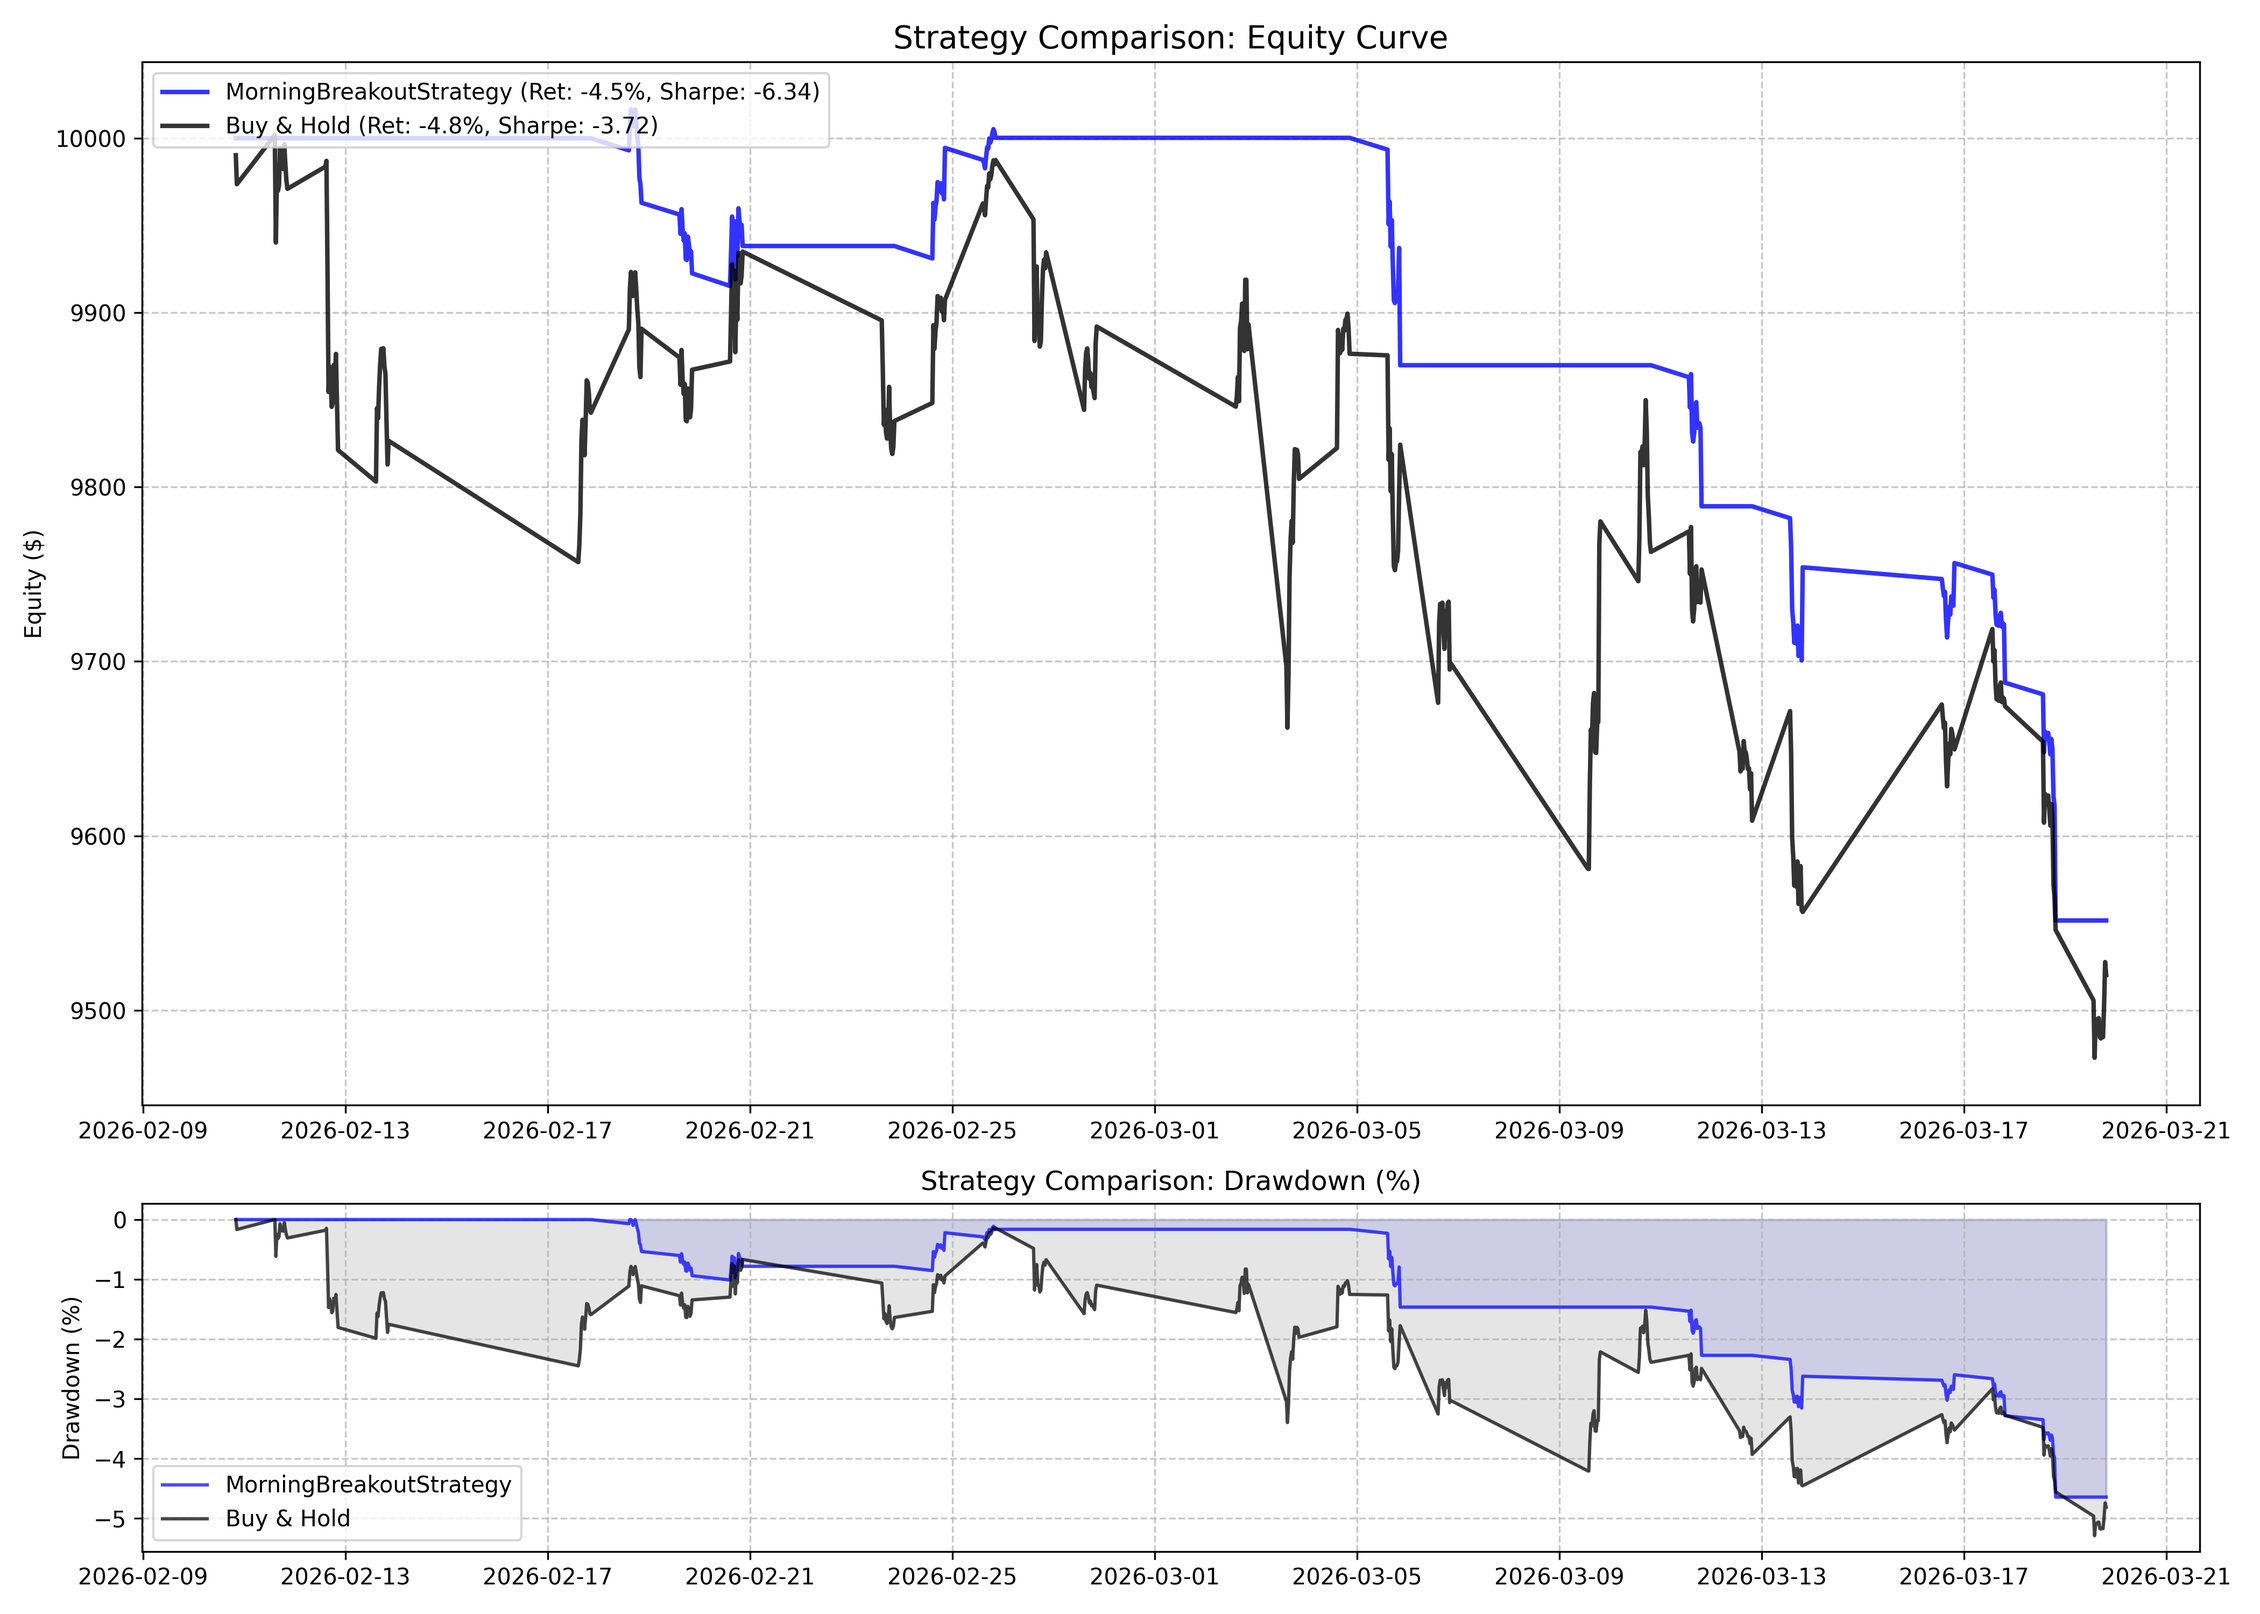
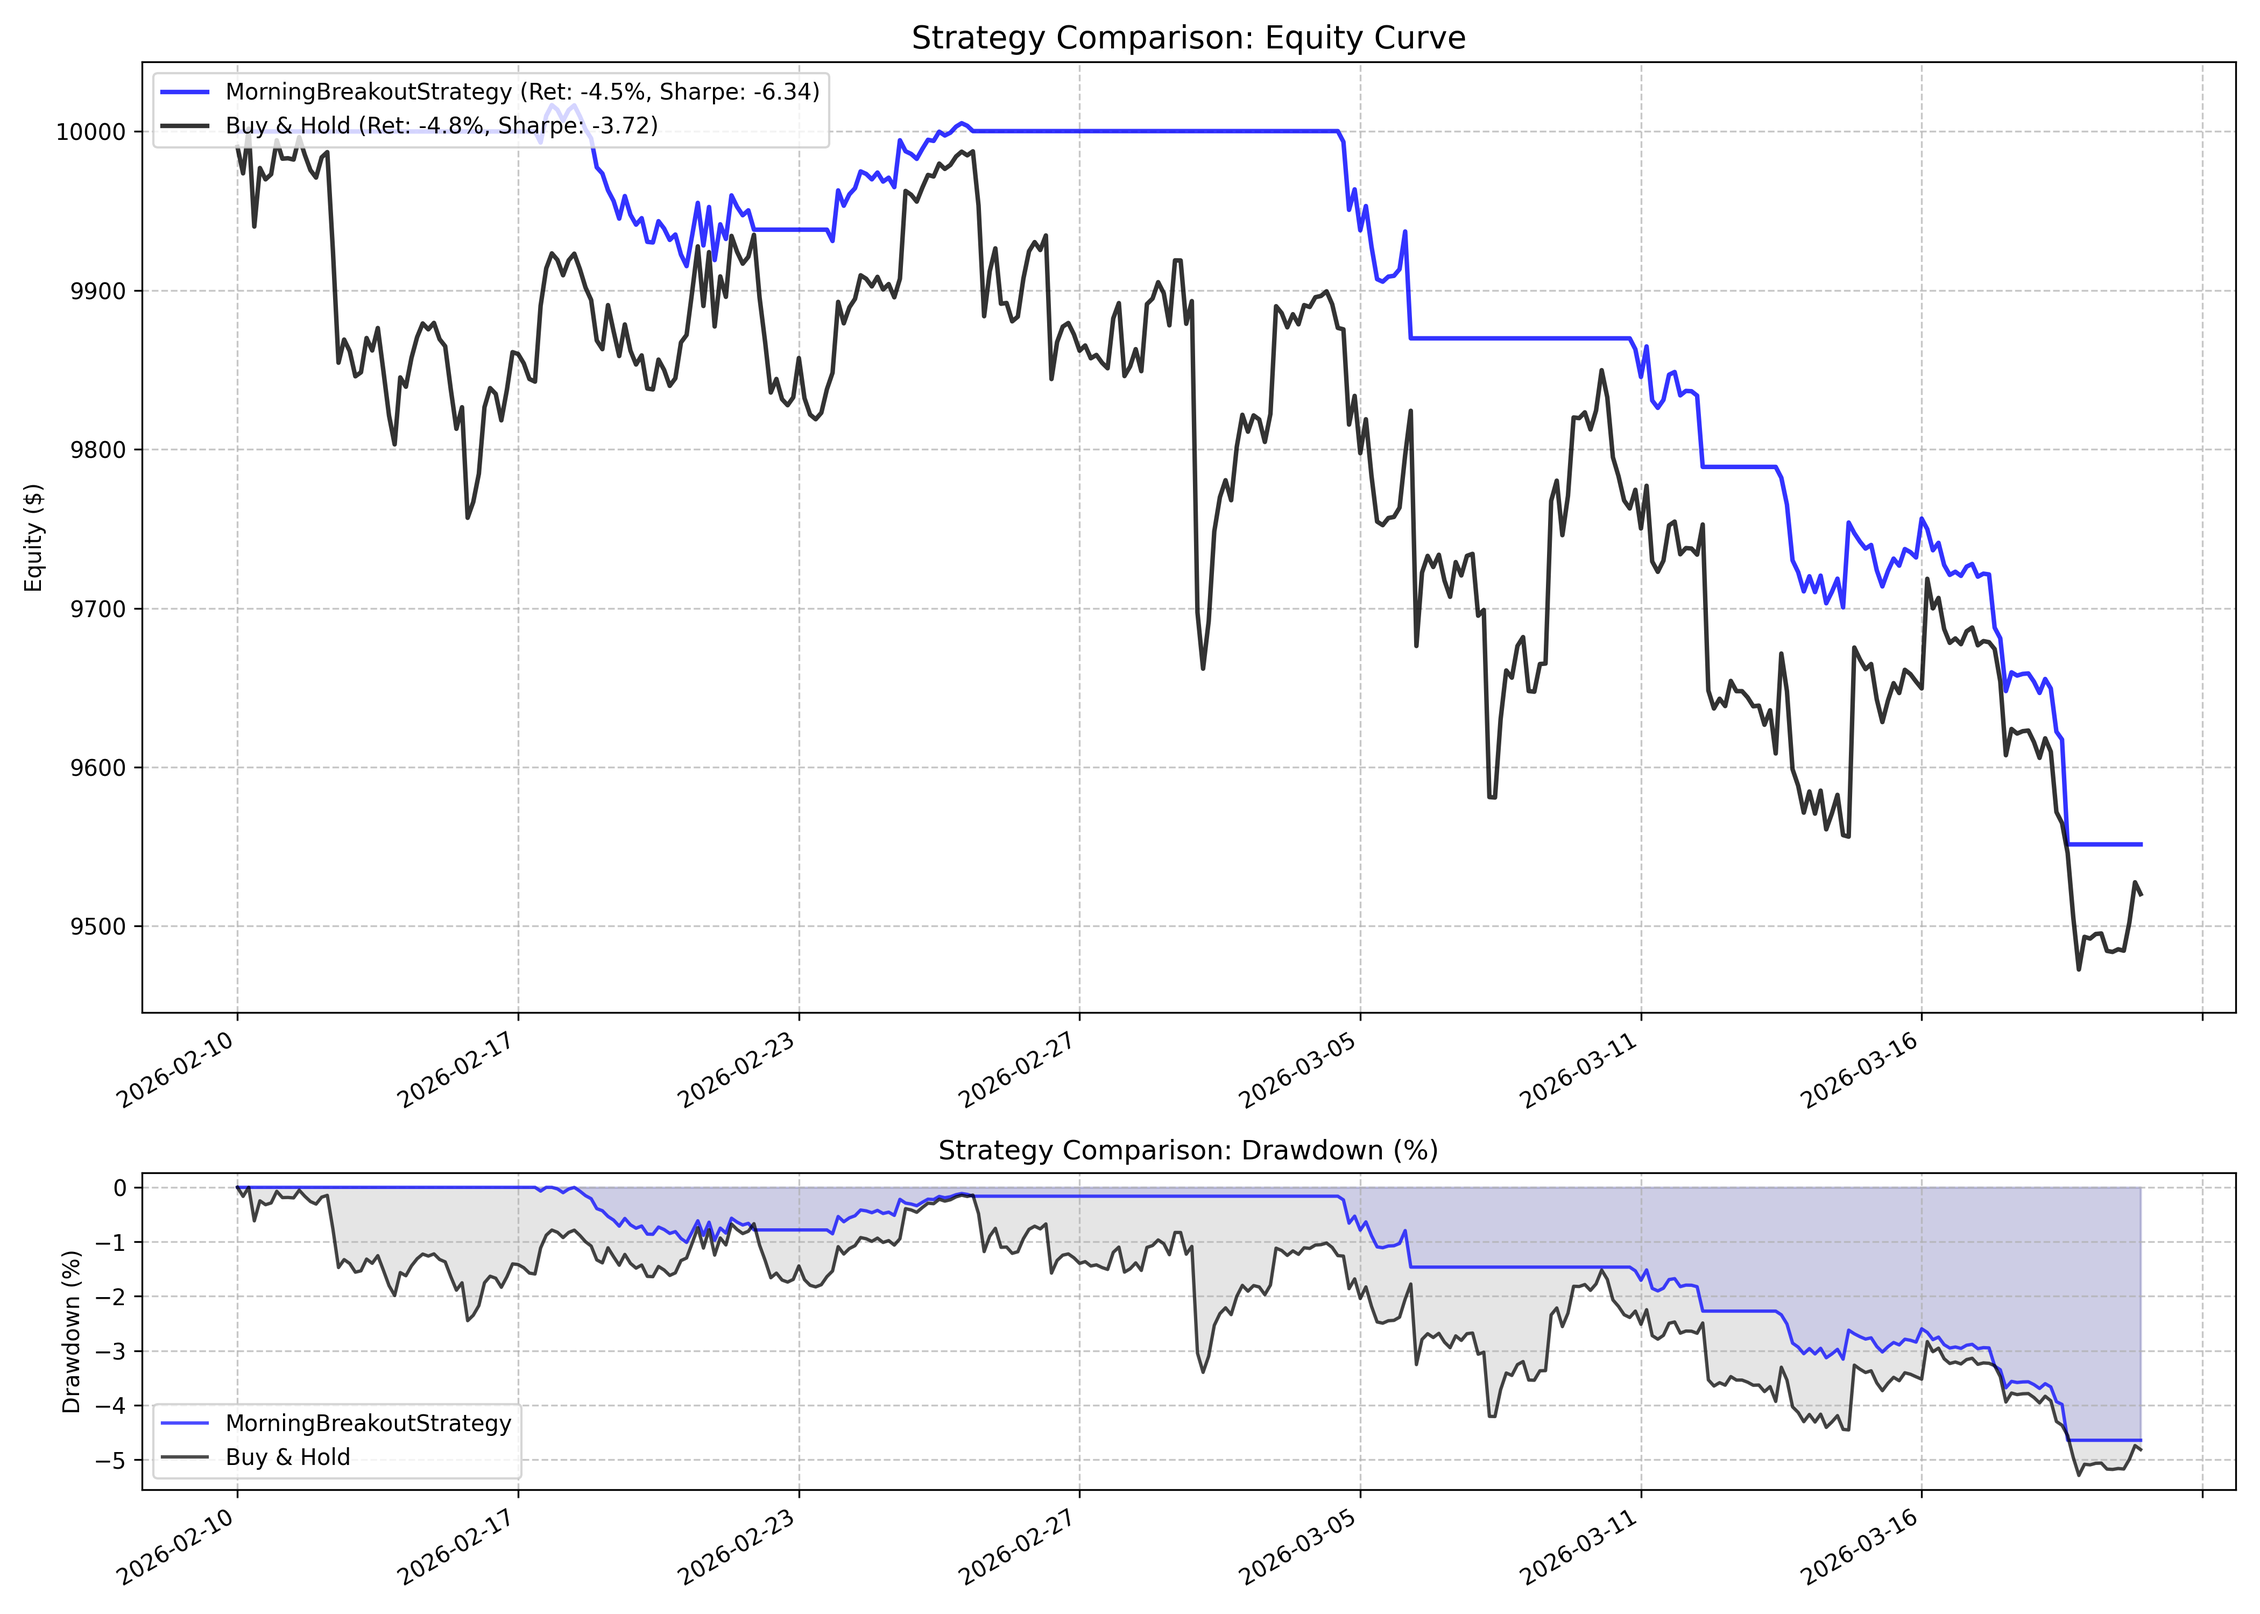
Removed weekend gaps from charts

diff --git a/backend/backtesting/chart.py b/backend/backtesting/chart.py
@@ -1,5 +1,5 @@
 import matplotlib.pyplot as plt
-import matplotlib.dates as mdates
+import matplotlib.ticker as ticker
 import matplotlib.figure
 import pandas as pd
 from typing import Dict, Optional
@@ -9,55 +9,78 @@ from .results import BacktestResult
 def plot_results(results: Dict[str, BacktestResult], filename: Optional[str] = 'backtest_result.png', show: bool = False) -> Optional[matplotlib.figure.Figure]:
     """
     Plots the equity curves and drawdown curves for multiple strategies on the same chart.
+    Uses integer-based x-axis so weekends and holidays are skipped (no gaps).
     Saves to a file and optionally displays the plot. Returns the Figure object.
     """
     if not results:
         print("No results to plot.")
         return None
 
-    # Create figure with 2 subplots (Equity Curve and Drawdown Curve)
     fig, (ax1, ax2) = plt.subplots(2, 1, figsize=(14, 10), gridspec_kw={'height_ratios': [3, 1]})
     
-    # Colors for different strategies
     colors = ['blue', 'black', 'green', 'orange', 'purple', 'red']
     
+    # We'll build one shared label list from the first valid result so the formatter
+    # can map integer x positions back to date strings on both subplots.
+    x_labels = None
+
     for i, (name, result) in enumerate(results.items()):
         if not result.equity_curve:
             continue
             
         color = colors[i % len(colors)]
 
-        # Convert to dataframe for easier plotting
         df = pd.DataFrame(result.equity_curve, columns=['timestamp', 'equity']).set_index('timestamp')
+
+        # Use integer positions so the x-axis has no gaps for missing dates
+        xs = range(len(df))
+
+        if x_labels is None:
+            x_labels = df.index.strftime('%Y-%m-%d').tolist()
 
         # --- Top Subplot: Equity Curve ---
         label = f"{name} (Ret: {result.total_return_pct:.1f}%, Sharpe: {result.sharpe_ratio:.2f})"
-        ax1.plot(df.index, df['equity'], label=label, color=color, linewidth=2, alpha=0.8)
+        ax1.plot(xs, df['equity'], label=label, color=color, linewidth=2, alpha=0.8)
         
         # --- Bottom Subplot: Drawdown Curve ---
-        # Calculate Drawdown
         cumulative_max = df['equity'].cummax()
         drawdown_pct = ((df['equity'] - cumulative_max) / cumulative_max) * 100.0
         
-        ax2.plot(drawdown_pct.index, drawdown_pct.values, label=name, color=color, linewidth=1.5, alpha=0.7)
-        ax2.fill_between(drawdown_pct.index, drawdown_pct.values, 0, color=color, alpha=0.1)
+        ax2.plot(xs, drawdown_pct.values, label=name, color=color, linewidth=1.5, alpha=0.7)
+        ax2.fill_between(xs, drawdown_pct.values, 0, color=color, alpha=0.1)
+
+    # Build the date formatter using the shared x_labels list
+    if x_labels:
+        def make_formatter(labels):
+            def fmt(x, pos=None):
+                idx = int(round(x))
+                if 0 <= idx < len(labels):
+                    return labels[idx]
+                return ''
+            return fmt
+
+        date_formatter = ticker.FuncFormatter(make_formatter(x_labels))
+
+        # Apply to both subplots, letting Matplotlib choose tick positions automatically
+        for ax in (ax1, ax2):
+            ax.xaxis.set_major_formatter(date_formatter)
+            # Use ~8 evenly spaced ticks across the data range
+            ax.xaxis.set_major_locator(ticker.MaxNLocator(nbins=8, integer=True))
 
     # --- Formatting Top Subplot ---
     ax1.set_title('Strategy Comparison: Equity Curve', fontsize=14)
     ax1.set_ylabel('Equity ($)')
     ax1.grid(True, linestyle='--', alpha=0.7)
     ax1.legend(loc='upper left')
-    ax1.xaxis.set_major_formatter(mdates.DateFormatter('%Y-%m-%d'))
+    plt.setp(ax1.xaxis.get_majorticklabels(), rotation=30, ha='right')
 
     # --- Formatting Bottom Subplot ---
     ax2.set_title('Strategy Comparison: Drawdown (%)', fontsize=12)
     ax2.set_ylabel('Drawdown (%)')
     ax2.grid(True, linestyle='--', alpha=0.7)
     ax2.legend(loc='lower left')
-    ax2.xaxis.set_major_formatter(mdates.DateFormatter('%Y-%m-%d'))
-    plt.setp(ax2.xaxis.get_majorticklabels(), rotation=0)
+    plt.setp(ax2.xaxis.get_majorticklabels(), rotation=30, ha='right')
 
-    # Layout adjustments
     plt.tight_layout()
 
     if filename:
@@ -66,8 +89,5 @@ def plot_results(results: Dict[str, BacktestResult], filename: Optional[str] = '
 
     if show:
         plt.show()
-    
-    # Do not call plt.close() if we want the user to be able to use the returned figure.
-    # The caller can manage the figure lifecycle.
-    
+
     return fig
